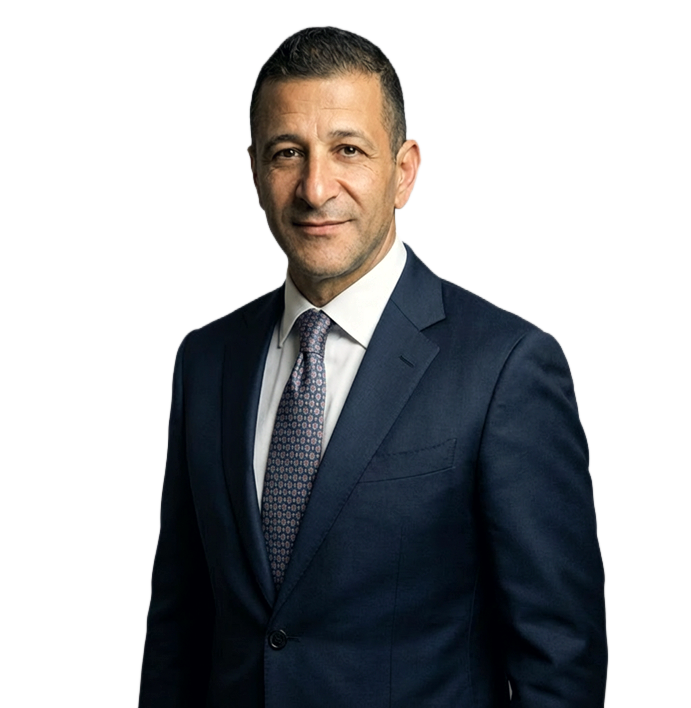
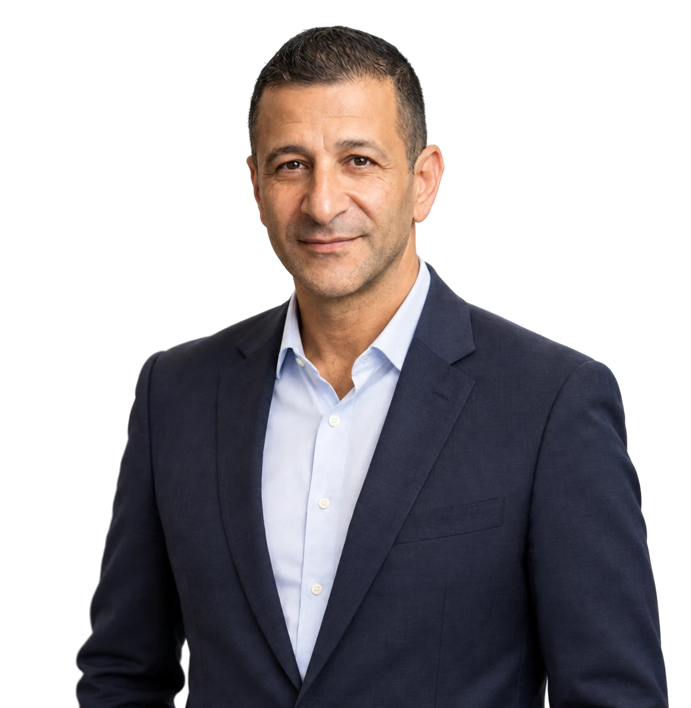
New partner portraits (background removed), team list and role updates

diff --git a/about.html b/about.html
@@ -2503,7 +2503,7 @@ function Articles() {
             <br />
             לדעת
           </h2>
-          <GoldButton href="#articles">למאמרים נוספים ←</GoldButton>
+          <GoldButton href={ROUTES.articles}>למאמרים נוספים ←</GoldButton>
         </div>
 
         <div className="-mx-6 min-w-0 flex-1 md:-mx-8 lg:mx-0 lg:ml-[calc(-1*max(2rem,(100vw-1175px)/2))] lg:mt-[10px]">
@@ -2829,13 +2829,12 @@ type TeamMember = { name: string; role: string; img?: string };
 /* the office team (the partners have their own sections above) */
 const TEAM: TeamMember[] = [
   { name: "אורה יורצ'נקו", role: "מנהלת מחלקת הנהלת חשבונות", img: "public/assets/team/ora-yurchenko.webp" },
-  { name: "אירנה פיטקובסקי", role: "מנהלת חשבונות" },
-  { name: "אלוני שניידר", role: "מנהלת חשבונות", img: "public/assets/team/aloni-schneider.webp" },
-  { name: "אירנה ספיבק לברוב", role: "מנהלת אדמיניסטרטיבית", img: "public/assets/team/irena-spivak-lavrov.webp" },
+  { name: "אירנה פיטקובסקי", role: "מנהלת תיקי לקוחות" },
+  { name: "אלוני שניידר", role: "מנהלת תיקי לקוחות", img: "public/assets/team/aloni-schneider.webp" },
+  { name: "אירנה ספיבק לברוב", role: "אדמיניסטרציה ומנהלת תיקי לקוחות", img: "public/assets/team/irena-spivak-lavrov.webp" },
   { name: "ולריה ליטבק", role: "רואת חשבון" },
   { name: "קטיה חיגר", role: "רואת חשבון", img: "public/assets/team/katia-higer.webp" },
-  { name: "מיכאל זלוטסקי", role: "עוזר מנכ\"ל" },
-  { name: "אבי קדוש", role: "רואה חשבון" },
+  { name: "מיכאל זלוטסקי", role: "חשב ועוזר מנכ\"ל" },
   { name: "שלמה שם טוב", role: "עוזר רואה חשבון" },
 ];
 
@@ -2864,7 +2863,7 @@ function TeamSection() {
       <div className={cn(wrap, "text-center")} data-reveal>
         <h2 className={sectionTitle}>האנשים שלנו</h2>
         <p className="mx-auto mt-6 max-w-[640px] text-center font-light text-[18px] leading-[1.7] md:text-[20px]">
-          {noOrphan("צוות מסור של אנשי מקצוע, שכל אחד מהם מביא ניסיון, דיוק ואכפתיות אמיתית לכל לקוח ולכל תיק.")}
+          {noOrphan("צוות מסור של אנשי מקצוע, שכל אחד מהם מביא ניסיון, דיוק ואכפתיות לכל לקוח ולכל תיק.")}
         </p>
       </div>
 

diff --git a/accessibility.html b/accessibility.html
@@ -2503,7 +2503,7 @@ function Articles() {
             <br />
             לדעת
           </h2>
-          <GoldButton href="#articles">למאמרים נוספים ←</GoldButton>
+          <GoldButton href={ROUTES.articles}>למאמרים נוספים ←</GoldButton>
         </div>
 
         <div className="-mx-6 min-w-0 flex-1 md:-mx-8 lg:mx-0 lg:ml-[calc(-1*max(2rem,(100vw-1175px)/2))] lg:mt-[10px]">
@@ -2829,13 +2829,12 @@ type TeamMember = { name: string; role: string; img?: string };
 /* the office team (the partners have their own sections above) */
 const TEAM: TeamMember[] = [
   { name: "אורה יורצ'נקו", role: "מנהלת מחלקת הנהלת חשבונות", img: "public/assets/team/ora-yurchenko.webp" },
-  { name: "אירנה פיטקובסקי", role: "מנהלת חשבונות" },
-  { name: "אלוני שניידר", role: "מנהלת חשבונות", img: "public/assets/team/aloni-schneider.webp" },
-  { name: "אירנה ספיבק לברוב", role: "מנהלת אדמיניסטרטיבית", img: "public/assets/team/irena-spivak-lavrov.webp" },
+  { name: "אירנה פיטקובסקי", role: "מנהלת תיקי לקוחות" },
+  { name: "אלוני שניידר", role: "מנהלת תיקי לקוחות", img: "public/assets/team/aloni-schneider.webp" },
+  { name: "אירנה ספיבק לברוב", role: "אדמיניסטרציה ומנהלת תיקי לקוחות", img: "public/assets/team/irena-spivak-lavrov.webp" },
   { name: "ולריה ליטבק", role: "רואת חשבון" },
   { name: "קטיה חיגר", role: "רואת חשבון", img: "public/assets/team/katia-higer.webp" },
-  { name: "מיכאל זלוטסקי", role: "עוזר מנכ\"ל" },
-  { name: "אבי קדוש", role: "רואה חשבון" },
+  { name: "מיכאל זלוטסקי", role: "חשב ועוזר מנכ\"ל" },
   { name: "שלמה שם טוב", role: "עוזר רואה חשבון" },
 ];
 
@@ -2864,7 +2863,7 @@ function TeamSection() {
       <div className={cn(wrap, "text-center")} data-reveal>
         <h2 className={sectionTitle}>האנשים שלנו</h2>
         <p className="mx-auto mt-6 max-w-[640px] text-center font-light text-[18px] leading-[1.7] md:text-[20px]">
-          {noOrphan("צוות מסור של אנשי מקצוע, שכל אחד מהם מביא ניסיון, דיוק ואכפתיות אמיתית לכל לקוח ולכל תיק.")}
+          {noOrphan("צוות מסור של אנשי מקצוע, שכל אחד מהם מביא ניסיון, דיוק ואכפתיות לכל לקוח ולכל תיק.")}
         </p>
       </div>
 

diff --git a/article.html b/article.html
@@ -2503,7 +2503,7 @@ function Articles() {
             <br />
             לדעת
           </h2>
-          <GoldButton href="#articles">למאמרים נוספים ←</GoldButton>
+          <GoldButton href={ROUTES.articles}>למאמרים נוספים ←</GoldButton>
         </div>
 
         <div className="-mx-6 min-w-0 flex-1 md:-mx-8 lg:mx-0 lg:ml-[calc(-1*max(2rem,(100vw-1175px)/2))] lg:mt-[10px]">
@@ -2829,13 +2829,12 @@ type TeamMember = { name: string; role: string; img?: string };
 /* the office team (the partners have their own sections above) */
 const TEAM: TeamMember[] = [
   { name: "אורה יורצ'נקו", role: "מנהלת מחלקת הנהלת חשבונות", img: "public/assets/team/ora-yurchenko.webp" },
-  { name: "אירנה פיטקובסקי", role: "מנהלת חשבונות" },
-  { name: "אלוני שניידר", role: "מנהלת חשבונות", img: "public/assets/team/aloni-schneider.webp" },
-  { name: "אירנה ספיבק לברוב", role: "מנהלת אדמיניסטרטיבית", img: "public/assets/team/irena-spivak-lavrov.webp" },
+  { name: "אירנה פיטקובסקי", role: "מנהלת תיקי לקוחות" },
+  { name: "אלוני שניידר", role: "מנהלת תיקי לקוחות", img: "public/assets/team/aloni-schneider.webp" },
+  { name: "אירנה ספיבק לברוב", role: "אדמיניסטרציה ומנהלת תיקי לקוחות", img: "public/assets/team/irena-spivak-lavrov.webp" },
   { name: "ולריה ליטבק", role: "רואת חשבון" },
   { name: "קטיה חיגר", role: "רואת חשבון", img: "public/assets/team/katia-higer.webp" },
-  { name: "מיכאל זלוטסקי", role: "עוזר מנכ\"ל" },
-  { name: "אבי קדוש", role: "רואה חשבון" },
+  { name: "מיכאל זלוטסקי", role: "חשב ועוזר מנכ\"ל" },
   { name: "שלמה שם טוב", role: "עוזר רואה חשבון" },
 ];
 
@@ -2864,7 +2863,7 @@ function TeamSection() {
       <div className={cn(wrap, "text-center")} data-reveal>
         <h2 className={sectionTitle}>האנשים שלנו</h2>
         <p className="mx-auto mt-6 max-w-[640px] text-center font-light text-[18px] leading-[1.7] md:text-[20px]">
-          {noOrphan("צוות מסור של אנשי מקצוע, שכל אחד מהם מביא ניסיון, דיוק ואכפתיות אמיתית לכל לקוח ולכל תיק.")}
+          {noOrphan("צוות מסור של אנשי מקצוע, שכל אחד מהם מביא ניסיון, דיוק ואכפתיות לכל לקוח ולכל תיק.")}
         </p>
       </div>
 

diff --git a/articles.html b/articles.html
@@ -2503,7 +2503,7 @@ function Articles() {
             <br />
             לדעת
           </h2>
-          <GoldButton href="#articles">למאמרים נוספים ←</GoldButton>
+          <GoldButton href={ROUTES.articles}>למאמרים נוספים ←</GoldButton>
         </div>
 
         <div className="-mx-6 min-w-0 flex-1 md:-mx-8 lg:mx-0 lg:ml-[calc(-1*max(2rem,(100vw-1175px)/2))] lg:mt-[10px]">
@@ -2829,13 +2829,12 @@ type TeamMember = { name: string; role: string; img?: string };
 /* the office team (the partners have their own sections above) */
 const TEAM: TeamMember[] = [
   { name: "אורה יורצ'נקו", role: "מנהלת מחלקת הנהלת חשבונות", img: "public/assets/team/ora-yurchenko.webp" },
-  { name: "אירנה פיטקובסקי", role: "מנהלת חשבונות" },
-  { name: "אלוני שניידר", role: "מנהלת חשבונות", img: "public/assets/team/aloni-schneider.webp" },
-  { name: "אירנה ספיבק לברוב", role: "מנהלת אדמיניסטרטיבית", img: "public/assets/team/irena-spivak-lavrov.webp" },
+  { name: "אירנה פיטקובסקי", role: "מנהלת תיקי לקוחות" },
+  { name: "אלוני שניידר", role: "מנהלת תיקי לקוחות", img: "public/assets/team/aloni-schneider.webp" },
+  { name: "אירנה ספיבק לברוב", role: "אדמיניסטרציה ומנהלת תיקי לקוחות", img: "public/assets/team/irena-spivak-lavrov.webp" },
   { name: "ולריה ליטבק", role: "רואת חשבון" },
   { name: "קטיה חיגר", role: "רואת חשבון", img: "public/assets/team/katia-higer.webp" },
-  { name: "מיכאל זלוטסקי", role: "עוזר מנכ\"ל" },
-  { name: "אבי קדוש", role: "רואה חשבון" },
+  { name: "מיכאל זלוטסקי", role: "חשב ועוזר מנכ\"ל" },
   { name: "שלמה שם טוב", role: "עוזר רואה חשבון" },
 ];
 
@@ -2864,7 +2863,7 @@ function TeamSection() {
       <div className={cn(wrap, "text-center")} data-reveal>
         <h2 className={sectionTitle}>האנשים שלנו</h2>
         <p className="mx-auto mt-6 max-w-[640px] text-center font-light text-[18px] leading-[1.7] md:text-[20px]">
-          {noOrphan("צוות מסור של אנשי מקצוע, שכל אחד מהם מביא ניסיון, דיוק ואכפתיות אמיתית לכל לקוח ולכל תיק.")}
+          {noOrphan("צוות מסור של אנשי מקצוע, שכל אחד מהם מביא ניסיון, דיוק ואכפתיות לכל לקוח ולכל תיק.")}
         </p>
       </div>
 

diff --git a/index.html b/index.html
@@ -2503,7 +2503,7 @@ function Articles() {
             <br />
             לדעת
           </h2>
-          <GoldButton href="#articles">למאמרים נוספים ←</GoldButton>
+          <GoldButton href={ROUTES.articles}>למאמרים נוספים ←</GoldButton>
         </div>
 
         <div className="-mx-6 min-w-0 flex-1 md:-mx-8 lg:mx-0 lg:ml-[calc(-1*max(2rem,(100vw-1175px)/2))] lg:mt-[10px]">
@@ -2829,13 +2829,12 @@ type TeamMember = { name: string; role: string; img?: string };
 /* the office team (the partners have their own sections above) */
 const TEAM: TeamMember[] = [
   { name: "אורה יורצ'נקו", role: "מנהלת מחלקת הנהלת חשבונות", img: "public/assets/team/ora-yurchenko.webp" },
-  { name: "אירנה פיטקובסקי", role: "מנהלת חשבונות" },
-  { name: "אלוני שניידר", role: "מנהלת חשבונות", img: "public/assets/team/aloni-schneider.webp" },
-  { name: "אירנה ספיבק לברוב", role: "מנהלת אדמיניסטרטיבית", img: "public/assets/team/irena-spivak-lavrov.webp" },
+  { name: "אירנה פיטקובסקי", role: "מנהלת תיקי לקוחות" },
+  { name: "אלוני שניידר", role: "מנהלת תיקי לקוחות", img: "public/assets/team/aloni-schneider.webp" },
+  { name: "אירנה ספיבק לברוב", role: "אדמיניסטרציה ומנהלת תיקי לקוחות", img: "public/assets/team/irena-spivak-lavrov.webp" },
   { name: "ולריה ליטבק", role: "רואת חשבון" },
   { name: "קטיה חיגר", role: "רואת חשבון", img: "public/assets/team/katia-higer.webp" },
-  { name: "מיכאל זלוטסקי", role: "עוזר מנכ\"ל" },
-  { name: "אבי קדוש", role: "רואה חשבון" },
+  { name: "מיכאל זלוטסקי", role: "חשב ועוזר מנכ\"ל" },
   { name: "שלמה שם טוב", role: "עוזר רואה חשבון" },
 ];
 
@@ -2864,7 +2863,7 @@ function TeamSection() {
       <div className={cn(wrap, "text-center")} data-reveal>
         <h2 className={sectionTitle}>האנשים שלנו</h2>
         <p className="mx-auto mt-6 max-w-[640px] text-center font-light text-[18px] leading-[1.7] md:text-[20px]">
-          {noOrphan("צוות מסור של אנשי מקצוע, שכל אחד מהם מביא ניסיון, דיוק ואכפתיות אמיתית לכל לקוח ולכל תיק.")}
+          {noOrphan("צוות מסור של אנשי מקצוע, שכל אחד מהם מביא ניסיון, דיוק ואכפתיות לכל לקוח ולכל תיק.")}
         </p>
       </div>
 

diff --git a/privacy.html b/privacy.html
@@ -2503,7 +2503,7 @@ function Articles() {
             <br />
             לדעת
           </h2>
-          <GoldButton href="#articles">למאמרים נוספים ←</GoldButton>
+          <GoldButton href={ROUTES.articles}>למאמרים נוספים ←</GoldButton>
         </div>
 
         <div className="-mx-6 min-w-0 flex-1 md:-mx-8 lg:mx-0 lg:ml-[calc(-1*max(2rem,(100vw-1175px)/2))] lg:mt-[10px]">
@@ -2829,13 +2829,12 @@ type TeamMember = { name: string; role: string; img?: string };
 /* the office team (the partners have their own sections above) */
 const TEAM: TeamMember[] = [
   { name: "אורה יורצ'נקו", role: "מנהלת מחלקת הנהלת חשבונות", img: "public/assets/team/ora-yurchenko.webp" },
-  { name: "אירנה פיטקובסקי", role: "מנהלת חשבונות" },
-  { name: "אלוני שניידר", role: "מנהלת חשבונות", img: "public/assets/team/aloni-schneider.webp" },
-  { name: "אירנה ספיבק לברוב", role: "מנהלת אדמיניסטרטיבית", img: "public/assets/team/irena-spivak-lavrov.webp" },
+  { name: "אירנה פיטקובסקי", role: "מנהלת תיקי לקוחות" },
+  { name: "אלוני שניידר", role: "מנהלת תיקי לקוחות", img: "public/assets/team/aloni-schneider.webp" },
+  { name: "אירנה ספיבק לברוב", role: "אדמיניסטרציה ומנהלת תיקי לקוחות", img: "public/assets/team/irena-spivak-lavrov.webp" },
   { name: "ולריה ליטבק", role: "רואת חשבון" },
   { name: "קטיה חיגר", role: "רואת חשבון", img: "public/assets/team/katia-higer.webp" },
-  { name: "מיכאל זלוטסקי", role: "עוזר מנכ\"ל" },
-  { name: "אבי קדוש", role: "רואה חשבון" },
+  { name: "מיכאל זלוטסקי", role: "חשב ועוזר מנכ\"ל" },
   { name: "שלמה שם טוב", role: "עוזר רואה חשבון" },
 ];
 
@@ -2864,7 +2863,7 @@ function TeamSection() {
       <div className={cn(wrap, "text-center")} data-reveal>
         <h2 className={sectionTitle}>האנשים שלנו</h2>
         <p className="mx-auto mt-6 max-w-[640px] text-center font-light text-[18px] leading-[1.7] md:text-[20px]">
-          {noOrphan("צוות מסור של אנשי מקצוע, שכל אחד מהם מביא ניסיון, דיוק ואכפתיות אמיתית לכל לקוח ולכל תיק.")}
+          {noOrphan("צוות מסור של אנשי מקצוע, שכל אחד מהם מביא ניסיון, דיוק ואכפתיות לכל לקוח ולכל תיק.")}
         </p>
       </div>
 

diff --git a/services.html b/services.html
@@ -2503,7 +2503,7 @@ function Articles() {
             <br />
             לדעת
           </h2>
-          <GoldButton href="#articles">למאמרים נוספים ←</GoldButton>
+          <GoldButton href={ROUTES.articles}>למאמרים נוספים ←</GoldButton>
         </div>
 
         <div className="-mx-6 min-w-0 flex-1 md:-mx-8 lg:mx-0 lg:ml-[calc(-1*max(2rem,(100vw-1175px)/2))] lg:mt-[10px]">
@@ -2829,13 +2829,12 @@ type TeamMember = { name: string; role: string; img?: string };
 /* the office team (the partners have their own sections above) */
 const TEAM: TeamMember[] = [
   { name: "אורה יורצ'נקו", role: "מנהלת מחלקת הנהלת חשבונות", img: "public/assets/team/ora-yurchenko.webp" },
-  { name: "אירנה פיטקובסקי", role: "מנהלת חשבונות" },
-  { name: "אלוני שניידר", role: "מנהלת חשבונות", img: "public/assets/team/aloni-schneider.webp" },
-  { name: "אירנה ספיבק לברוב", role: "מנהלת אדמיניסטרטיבית", img: "public/assets/team/irena-spivak-lavrov.webp" },
+  { name: "אירנה פיטקובסקי", role: "מנהלת תיקי לקוחות" },
+  { name: "אלוני שניידר", role: "מנהלת תיקי לקוחות", img: "public/assets/team/aloni-schneider.webp" },
+  { name: "אירנה ספיבק לברוב", role: "אדמיניסטרציה ומנהלת תיקי לקוחות", img: "public/assets/team/irena-spivak-lavrov.webp" },
   { name: "ולריה ליטבק", role: "רואת חשבון" },
   { name: "קטיה חיגר", role: "רואת חשבון", img: "public/assets/team/katia-higer.webp" },
-  { name: "מיכאל זלוטסקי", role: "עוזר מנכ\"ל" },
-  { name: "אבי קדוש", role: "רואה חשבון" },
+  { name: "מיכאל זלוטסקי", role: "חשב ועוזר מנכ\"ל" },
   { name: "שלמה שם טוב", role: "עוזר רואה חשבון" },
 ];
 
@@ -2864,7 +2863,7 @@ function TeamSection() {
       <div className={cn(wrap, "text-center")} data-reveal>
         <h2 className={sectionTitle}>האנשים שלנו</h2>
         <p className="mx-auto mt-6 max-w-[640px] text-center font-light text-[18px] leading-[1.7] md:text-[20px]">
-          {noOrphan("צוות מסור של אנשי מקצוע, שכל אחד מהם מביא ניסיון, דיוק ואכפתיות אמיתית לכל לקוח ולכל תיק.")}
+          {noOrphan("צוות מסור של אנשי מקצוע, שכל אחד מהם מביא ניסיון, דיוק ואכפתיות לכל לקוח ולכל תיק.")}
         </p>
       </div>
 

diff --git a/terms.html b/terms.html
@@ -2503,7 +2503,7 @@ function Articles() {
             <br />
             לדעת
           </h2>
-          <GoldButton href="#articles">למאמרים נוספים ←</GoldButton>
+          <GoldButton href={ROUTES.articles}>למאמרים נוספים ←</GoldButton>
         </div>
 
         <div className="-mx-6 min-w-0 flex-1 md:-mx-8 lg:mx-0 lg:ml-[calc(-1*max(2rem,(100vw-1175px)/2))] lg:mt-[10px]">
@@ -2829,13 +2829,12 @@ type TeamMember = { name: string; role: string; img?: string };
 /* the office team (the partners have their own sections above) */
 const TEAM: TeamMember[] = [
   { name: "אורה יורצ'נקו", role: "מנהלת מחלקת הנהלת חשבונות", img: "public/assets/team/ora-yurchenko.webp" },
-  { name: "אירנה פיטקובסקי", role: "מנהלת חשבונות" },
-  { name: "אלוני שניידר", role: "מנהלת חשבונות", img: "public/assets/team/aloni-schneider.webp" },
-  { name: "אירנה ספיבק לברוב", role: "מנהלת אדמיניסטרטיבית", img: "public/assets/team/irena-spivak-lavrov.webp" },
+  { name: "אירנה פיטקובסקי", role: "מנהלת תיקי לקוחות" },
+  { name: "אלוני שניידר", role: "מנהלת תיקי לקוחות", img: "public/assets/team/aloni-schneider.webp" },
+  { name: "אירנה ספיבק לברוב", role: "אדמיניסטרציה ומנהלת תיקי לקוחות", img: "public/assets/team/irena-spivak-lavrov.webp" },
   { name: "ולריה ליטבק", role: "רואת חשבון" },
   { name: "קטיה חיגר", role: "רואת חשבון", img: "public/assets/team/katia-higer.webp" },
-  { name: "מיכאל זלוטסקי", role: "עוזר מנכ\"ל" },
-  { name: "אבי קדוש", role: "רואה חשבון" },
+  { name: "מיכאל זלוטסקי", role: "חשב ועוזר מנכ\"ל" },
   { name: "שלמה שם טוב", role: "עוזר רואה חשבון" },
 ];
 
@@ -2864,7 +2863,7 @@ function TeamSection() {
       <div className={cn(wrap, "text-center")} data-reveal>
         <h2 className={sectionTitle}>האנשים שלנו</h2>
         <p className="mx-auto mt-6 max-w-[640px] text-center font-light text-[18px] leading-[1.7] md:text-[20px]">
-          {noOrphan("צוות מסור של אנשי מקצוע, שכל אחד מהם מביא ניסיון, דיוק ואכפתיות אמיתית לכל לקוח ולכל תיק.")}
+          {noOrphan("צוות מסור של אנשי מקצוע, שכל אחד מהם מביא ניסיון, דיוק ואכפתיות לכל לקוח ולכל תיק.")}
         </p>
       </div>
 
